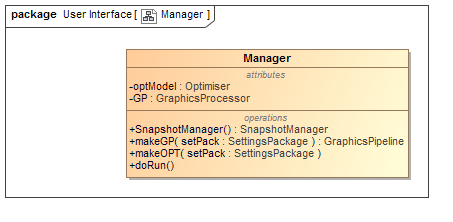
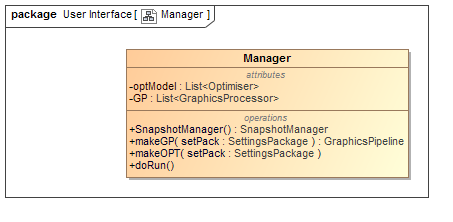
Document Update: Manager
Added Domain Model description

Changed region(s): [[0.34, 0.3514, 0.6181, 0.4595]]

diff --git a/FunctionalSpecification/FunctionalSpecification.tex b/FunctionalSpecification/FunctionalSpecification.tex
@@ -156,7 +156,8 @@ The scope of the Manager model can be defined in the context of a single doRun o
 \begin{figure}[H]
 \includegraphics[scale=0.45]{ManagerModel.png}
 \end{figure}
-
+\paragraph{•}
+The Manager class encapsulates the core functioning integration unit of the system. The Manager class will contain references to specific Optimisers and Graphics Processors and Snapshot Managers. One set of the three components comprises the components needed to perform a run. Each of these components are tethered, or coupled, to each other for the duration of the run and cannot be uncoupled. This will end when the run is terminated with the components being destroyed and the resources allocated available for reuse after the fact.
 \subsection{User Interface}
 \subsubsection{Scope}
 The scope of the User Interface is presented below.
